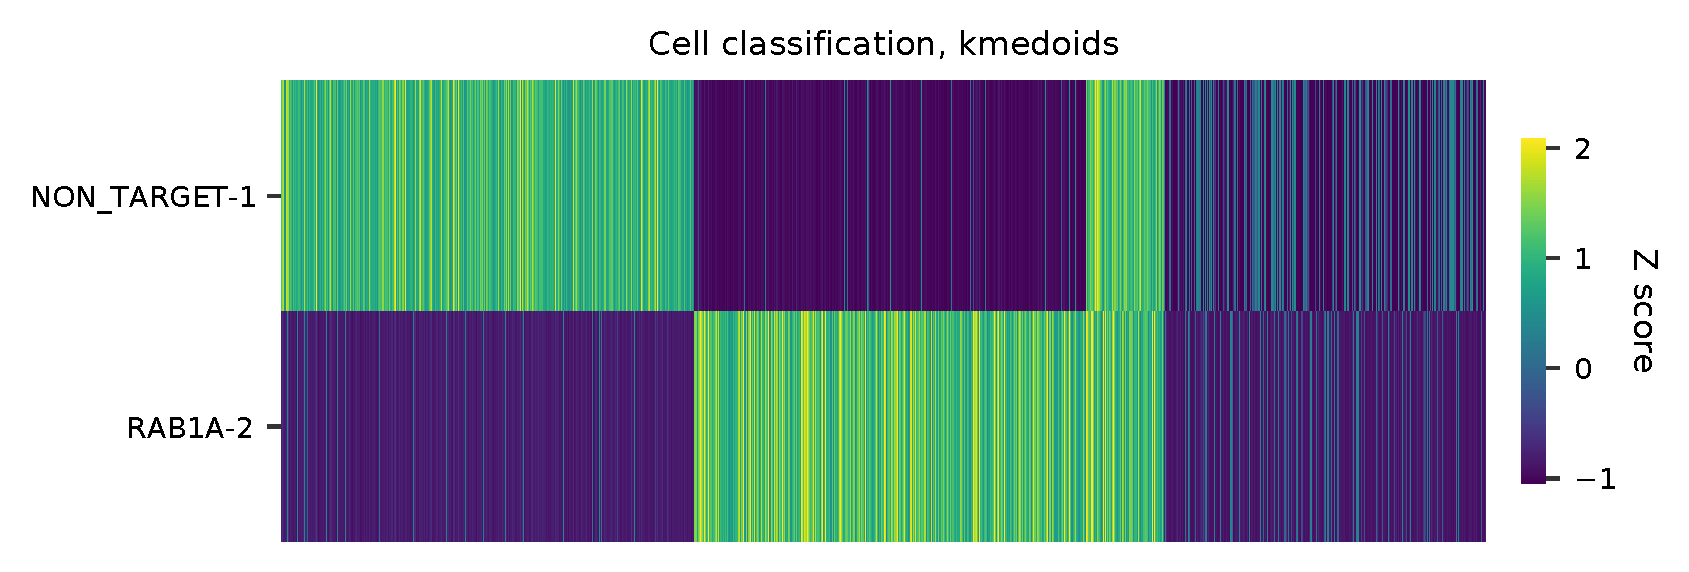
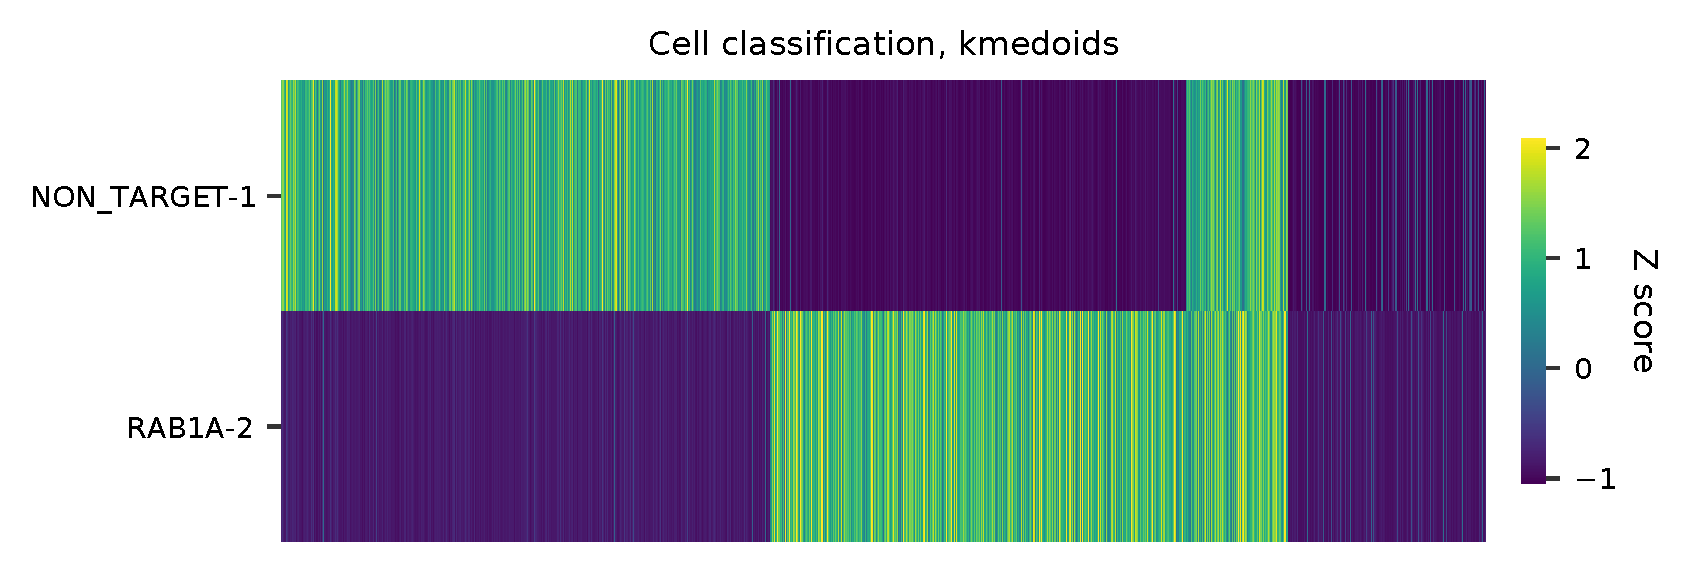
Update examples

Changed region(s): [[0.1539, 0.1189, 0.8928, 0.951]]

diff --git a/examples/targeted_transcript_enrichment/tutorial.md b/examples/targeted_transcript_enrichment/tutorial.md
@@ -17,7 +17,9 @@ $ wget https://cf.10xgenomics.com/samples/cell-exp/4.0.0/Targeted_NGSC3_DI_Hodgk
 $ tar xvf Targeted_NGSC3_DI_HodgkinsLymphoma_GeneSignature_fastqs.tar
 ```
 
-Download cell barcode info. These are the cell-associated barcodes in the parent [Hodgkin's Lymphoma, Dissociated Tumor: Whole Transcriptome Analysis](https://support.10xgenomics.com/single-cell-gene-expression/datasets/4.0.0/Parent_NGSC3_DI_HodgkinsLymphoma) dataset.
+Download cell barcode info.
+
+These are the cell-associated barcodes in the parent [Hodgkin's Lymphoma, Dissociated Tumor: Whole Transcriptome Analysis](https://support.10xgenomics.com/single-cell-gene-expression/datasets/4.0.0/Parent_NGSC3_DI_HodgkinsLymphoma) dataset.
 
 
 ```shell
@@ -43,9 +45,13 @@ AAACGCTGTTCTTGTT-1
 AAAGAACAGATTCGAA-1
 ```
 
-Prepare feature barcodes. `map` subcommand is designed to deal with secondary libraries built on top of whole transcriptome assays. The transcripts of interest in the whole transcriptome libraries are enriched through hybridization or PCR amplification, which enables possibly more sensitive detection. The transcripts can be from endogenous genes or ectopic constructs, for example eGFP, as long as they are captured in the parent libraries.
+Prepare feature barcodes.
 
-In this tutorial, this 10x Genomics 'Targeted Gene Expression' library is used as example. The bait sequences are used as references. Ideally, sequences of all possible captured transcript regions should be included. Reads 1 contain cell barcodes and UMIs. Reads 2 are enriched transcripts. For feature references, they should only contain transcribed parts (non-overlapping and no introns for endogenous genes).
+`map` subcommand is designed to deal with secondary libraries built on top of whole transcriptome assays. The transcripts of interest in the whole transcriptome libraries are enriched through hybridization or PCR amplification, which enables possibly more sensitive detection. The transcripts can be from endogenous genes or ectopic constructs, for example eGFP, as long as they are captured in the parent libraries.
+
+In this tutorial, this 10x Genomics 'Targeted Gene Expression' library is used as an example. The [bait sequences](https://kb.10xgenomics.com/hc/en-us/articles/360045688071-What-are-the-bait-design-criteria-for-10x-pre-designed-and-custom-panels-) are used as references for read 2 mapping. Ideally, sequences of all possible captured transcribed regions should be included. 
+
+Reads 1 contain cell barcodes and UMIs. Reads 2 are expected captured transcribed regions. For feature references, they should only contain transcribed parts (non-overlapping and no introns for endogenous genes).
 
 ```shell
 $ wget https://cf.10xgenomics.com/samples/cell-exp/4.0.0/Targeted_NGSC3_DI_HodgkinsLymphoma_GeneSignature/Targeted_NGSC3_DI_HodgkinsLymphoma_GeneSignature_target_panel.csv
@@ -68,7 +74,7 @@ ENSG00000000003,GGTGAGCCTGGAGAATTACTTTTCTCTTTTAAATGAGAAGGCCACCAATGTCCCCTTCGTGCTC
 ENSG00000000003,CCGAGCTTCTGCATGGATGCTAAAACTGTATGCAATGTTTCTGACTCTCGTTTTTTTGGTCGAACTGGTCGCTGCCATCGTAGGATTTGTTTTCAGACATGAGATTAAGAACAGCTTTAA,ENSG00000000003|TSPAN6|4
 ```
 
-Clean up.
+Re-format.
 
 ```shell
 $ grep -v '#' Targeted_NGSC3_DI_HodgkinsLymphoma_GeneSignature_target_panel.csv | wc -l
@@ -93,7 +99,7 @@ ENSG00000000003 TTTGCTATGTTCTAAGTCCACCTTCTATCCCATTCATGTTAGATCGTTGAAACCCTGTATCCCT
 
 ## Matrix generation
 
-First, all read 1 are searched against known cell-associated barcodes. Use `-r1_coords` to set the search range, `-cb_m` to set the mismatching threshold. Reads 2 with correct cell barcodes (on reads 1) are mapped to the provided sequences (bowtie2; [Langmead, B., and Salzberg, S.L. 2012. Nat. Methods 9, 357–359.](http://dx.doi.org/10.1038/nmeth.1923)). Only alignments passed mapping quality threshold (set by `--mapq`) are kept for downstream processing. UMI removal is powered by UMI-tools ([Smith, T., et al. 2017. Genome Res. 27, 491–499.](http://www.genome.org/cgi/doi/10.1101/gr.209601.116)). Use `-us` to set the UMI starting position on read 1. Use `-ul` to set the UMI length. Fragments with UMI length less than this value are discarded. UMI deduplication method is set by `-ud`.
+First, all reads 1 are searched against known cell-associated barcodes. Use `-r1_coords` to set the search range, `-cb_m` to set the mismatching threshold. Reads 2 with correct cell barcodes (on reads 1) are mapped to the provided sequences (bowtie2; [Langmead, B., and Salzberg, S.L. 2012. Nat. Methods 9, 357–359.](http://dx.doi.org/10.1038/nmeth.1923)). Only alignments passed mapping quality threshold (set by `--mapq`) are kept for downstream feature counting. UMI removal is powered by UMI-tools ([Smith, T., et al. 2017. Genome Res. 27, 491–499.](http://www.genome.org/cgi/doi/10.1101/gr.209601.116)). Use `-us` to set the UMI starting position on read 1. Use `-ul` to set the UMI length. Fragments with UMI length less than this value are discarded. UMI deduplication method is set by `-ud`.
 
 The generated feature count matrix can be easily imported into well-established single cell analysis packages: [Seruat](https://satijalab.org/seurat/) and [Scanpy](https://scanpy.readthedocs.io/en/stable/).
 
@@ -106,7 +112,7 @@ $ fba map \
     -f Targeted_NGSC3_DI_HodgkinsLymphoma_GeneSignature_target_panel.tsv \
     -o matrix_featurecount.csv.gz \
     -r1_coords 0,16 \
-    -cb_m 2 \
+    -cb_m 1 \
     --mapq 10 \
     -ul 12 \
     -us 16 \
@@ -119,24 +125,31 @@ $ fba map \
 Result summary.
 
 ```shell
-2020-09-21 20:44:58,009 - fba.map - INFO - bowtie2 version: 2.4.1
-2020-09-21 20:44:58,052 - fba.map - INFO - samtools version: 1.3
-2020-09-21 20:44:58,112 - fba.map - INFO - Read 1 coordinates to search: [0, 16]
-2020-09-21 20:44:58,112 - fba.map - INFO - Cell barcode maximum number of mismatches: 2
-2020-09-21 20:44:58,112 - fba.map - INFO - Mapping quality threshold: 10
-2020-09-21 20:44:58,113 - fba.map - INFO - Number of threads: 56
-2020-09-21 20:44:58,113 - fba.map - INFO - Chunk size: 10,000
-2020-09-21 20:44:58,113 - fba.map - INFO - UMI-tools version: 1.0.1
-2020-09-21 20:44:58,113 - fba.map - INFO - UMI-tools deduplication method: directional
-2020-09-21 20:44:58,113 - fba.map - INFO - UMI-tools deduplication threshold: 1
-2020-09-21 20:44:58,113 - fba.map - INFO - UMI length: 12
-2020-09-21 20:44:58,113 - fba.map - INFO - UMI starting position on read 1: 16
-2020-09-21 20:44:58,113 - fba.map - INFO - Preparing feature barcodes ...
-2020-09-21 20:45:00,738 - fba.map - INFO - Matching cell barcodes ...
-2020-09-21 21:19:54,318 - fba.map - INFO - Aligning ...
-2020-09-21 21:42:33,714 - fba.map - INFO - Generating matrix (UMI deduplication) ...
-2020-09-21 21:43:33,317 - fba.map - INFO - Number of cell barcodes detected: 3,379
-2020-09-21 21:43:33,319 - fba.map - INFO - Number of features detected: 1,127
-2020-09-21 21:43:33,322 - fba.map - INFO - Total UMIs after deduplication: 1,906,780
-2020-09-21 21:43:33,332 - fba.map - INFO - Median number of UMIs per cell: 397.0
+2020-09-23 21:15:53,528 - fba.map - INFO - bowtie2 version: 2.4.1
+2020-09-23 21:15:53,559 - fba.map - INFO - samtools version: 1.3
+2020-09-23 21:15:53,614 - fba.map - INFO - Read 1 coordinates to search: [0, 16]
+2020-09-23 21:15:53,614 - fba.map - INFO - Cell barcode maximum number of mismatches: 1
+2020-09-23 21:15:53,614 - fba.map - INFO - Mapping quality threshold: 10
+2020-09-23 21:15:53,614 - fba.map - INFO - Number of threads: 48
+2020-09-23 21:15:53,614 - fba.map - INFO - Chunk size: 10,000
+2020-09-23 21:15:53,614 - fba.map - INFO - UMI-tools version: 1.0.1
+2020-09-23 21:15:53,614 - fba.map - INFO - UMI-tools deduplication method: directional
+2020-09-23 21:15:53,614 - fba.map - INFO - UMI-tools deduplication threshold: 1
+2020-09-23 21:15:53,614 - fba.map - INFO - UMI length: 12
+2020-09-23 21:15:53,614 - fba.map - INFO - UMI starting position on read 1: 16
+2020-09-23 21:15:53,614 - fba.map - INFO - Preparing feature references ...
+2020-09-23 21:15:56,154 - fba.map - INFO - Matching cell barcodes (read 1) ...
+2020-09-23 21:52:48,071 - fba.map - INFO - Aligning (read 2) ...
+2020-09-23 22:16:05,486 - fba.map - INFO -
+28336522 reads; of these:
+  28336522 (100.00%) were unpaired; of these:
+    3590828 (12.67%) aligned 0 times
+    24425882 (86.20%) aligned exactly 1 time
+    319812 (1.13%) aligned >1 times
+87.33% overall alignment rate
+2020-09-23 22:16:05,487 - fba.map - INFO - Generating matrix (UMI deduplication) ...
+2020-09-23 22:17:43,808 - fba.map - INFO - Number of cell barcodes detected: 3,377
+2020-09-23 22:17:43,808 - fba.map - INFO - Number of features detected: 1,127
+2020-09-23 22:17:43,811 - fba.map - INFO - Total UMIs after deduplication: 2,106,755
+2020-09-23 22:17:43,821 - fba.map - INFO - Median number of UMIs per cell: 445.0
 ```

diff --git a/examples/cell_hashing/tutorial.md b/examples/cell_hashing/tutorial.md
@@ -176,23 +176,27 @@ $ fba count \
 Result summary.
 
 ```shell
-2020-09-17 12:13:27,692 - fba.count - INFO - UMI-tools version: 1.0.1
-2020-09-17 12:13:27,692 - fba.count - INFO - UMI-tools deduplication method: directional
-2020-09-17 12:13:27,692 - fba.count - INFO - UMI-tools deduplication threshold: 1
-2020-09-17 12:13:27,693 - fba.count - INFO - UMI length: 10
-2020-09-17 12:13:27,736 - fba.count - INFO - UMI starting position on read 1: 16
-2020-09-17 12:17:24,691 - fba.count - INFO - Number of lines processed: 72,281,743
-2020-09-17 12:17:24,850 - fba.count - INFO - Number of cell barcodes detected: 64,815
-2020-09-17 12:17:24,851 - fba.count - INFO - Number of features detected: 8
-2020-09-17 12:31:34,527 - fba.count - INFO - Total UMIs after deduplication: 18,490,434
-2020-09-17 12:31:34,640 - fba.count - INFO - Median number of UMIs per cell: 65.0
+2020-09-24 08:40:59,832 - fba.__main__ - INFO - Initiating logging ...
+2020-09-24 08:40:59,832 - fba.__main__ - INFO - Python version: 3.7
+2020-09-24 08:40:59,832 - fba.__main__ - INFO - Using count subcommand ...
+2020-09-24 08:40:59,832 - fba.count - INFO - UMI-tools version: 1.0.1
+2020-09-24 08:40:59,832 - fba.count - INFO - UMI-tools deduplication method: directional
+2020-09-24 08:40:59,832 - fba.count - INFO - UMI-tools deduplication threshold: 1
+2020-09-24 08:40:59,832 - fba.count - INFO - UMI length: 10
+2020-09-24 08:40:59,835 - fba.count - INFO - Header line: read1_seq cell_barcode cb_num_mismatches read2_seq feature_barcode fb_num_mismatches
+2020-09-24 08:40:59,835 - fba.count - INFO - UMI starting position on read 1: 16
+2020-09-24 08:44:49,684 - fba.count - INFO - Number of lines processed: 67,978,937
+2020-09-24 08:44:49,842 - fba.count - INFO - Number of cell barcodes detected: 64,997
+2020-09-24 08:44:49,842 - fba.count - INFO - Number of features detected: 8
+2020-09-24 08:59:31,320 - fba.count - INFO - Total UMIs after deduplication: 17,029,753
+2020-09-24 08:59:31,432 - fba.count - INFO - Median number of UMIs per cell: 63.0
 ```
 
 <br>
 
 ## Demultiplexing
 
-Cells are classified based on feature count matrix. The method used is described in [Stoeckius et al. 2018](https://doi.org/10.1186/s13059-018-1603-1) with small modifications.
+Cells are classified based on feature count matrix. The method 1 is implemented based on the method described in [Stoeckius et al. (2018)](https://doi.org/10.1186/s13059-018-1603-1) with some modifications. A cell identity matrix is generated in the output directory: 0 means negative, 1 means positive.
 
 ```shell
 $ fba demultiplex \
@@ -202,7 +206,7 @@ $ fba demultiplex \
 ```
 
 
-Heatmap of relative expressions of features across all cells.
+Heatmap of relative expressions of features across all cells. Each column represents a single cell.
 <p align='center'>
     <img src='Pyplot_heatmap_cells_demultiplexed.png' alt='' width='700'/>
 </p>

diff --git a/examples/crispr_screening/tutorial.md b/examples/crispr_screening/tutorial.md
@@ -36,7 +36,7 @@ $ tar zxvf SC3_v3_NextGem_DI_CRISPR_10K_raw_feature_bc_matrix.tar.gz
 Inspect cell barcodes.
 
 ```shell
-$ gzip -dc  filtered_feature_bc_matrix/barcodes.tsv.gz | head
+$ gzip -dc filtered_feature_bc_matrix/barcodes.tsv.gz | head
 
 AAACCCACACATAGCT-1
 AAACCCACATCATGAC-1
@@ -213,17 +213,18 @@ Result summary.
 
 ## Demultiplexing
 
-Cells are classified based on feature count matrix. The method used is described in [Stoeckius et al. 2018](https://doi.org/10.1186/s13059-018-1603-1) with small modifications.
+Cells are classified based on feature count matrix. The method 1 is implemented based on the method described in [Stoeckius et al. (2018)](https://doi.org/10.1186/s13059-018-1603-1) with some modifications. A cell identity matrix is generated in the output directory: 0 means negative, 1 means positive. Use `-q` to set the threshold.
 
 ```shell
 $ fba demultiplex \
     -i matrix_featurecount.csv.gz \
     --output_directory demultiplexed \
-    -m 1
+    -m 1 \
+    -q 0.95
 ```
 
 
-Heatmap of relative expressions of features across all cells.
+Heatmap of relative expressions of features across all cells. Each column represents a single cell.
 <p align='center'>
     <img src='Pyplot_heatmap_cells_demultiplexed.png' alt='' width='700'/>
 </p>

diff --git a/examples/cell_surface_protein_labeling/tutorial.md b/examples/cell_surface_protein_labeling/tutorial.md
@@ -36,7 +36,7 @@ $ tar zxvf SC3_v3_NextGem_DI_PBMC_CSP_1K_raw_feature_bc_matrix.tar.gz
 Inspect cell barcodes.
 
 ```shell
-$ gzip -dc  filtered_feature_bc_matrix/barcodes.tsv.gz | head
+$ gzip -dc filtered_feature_bc_matrix/barcodes.tsv.gz | head
 
 AAACCCAGTACCAGAG-1
 AAACGCTTCGGTCTGG-1
